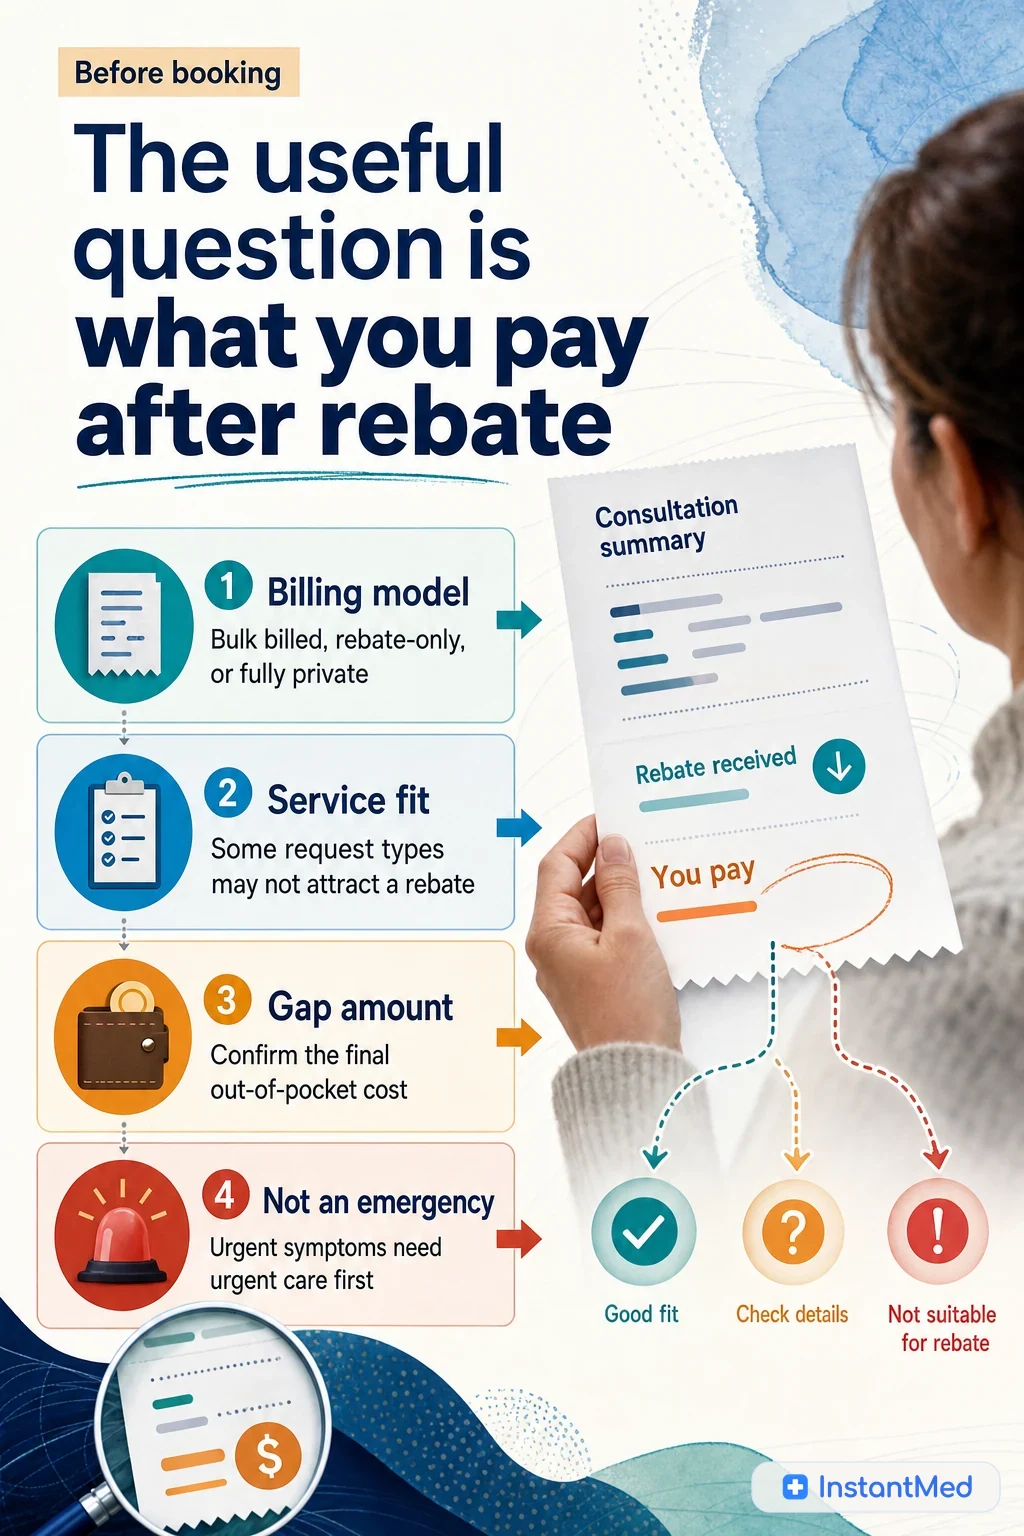
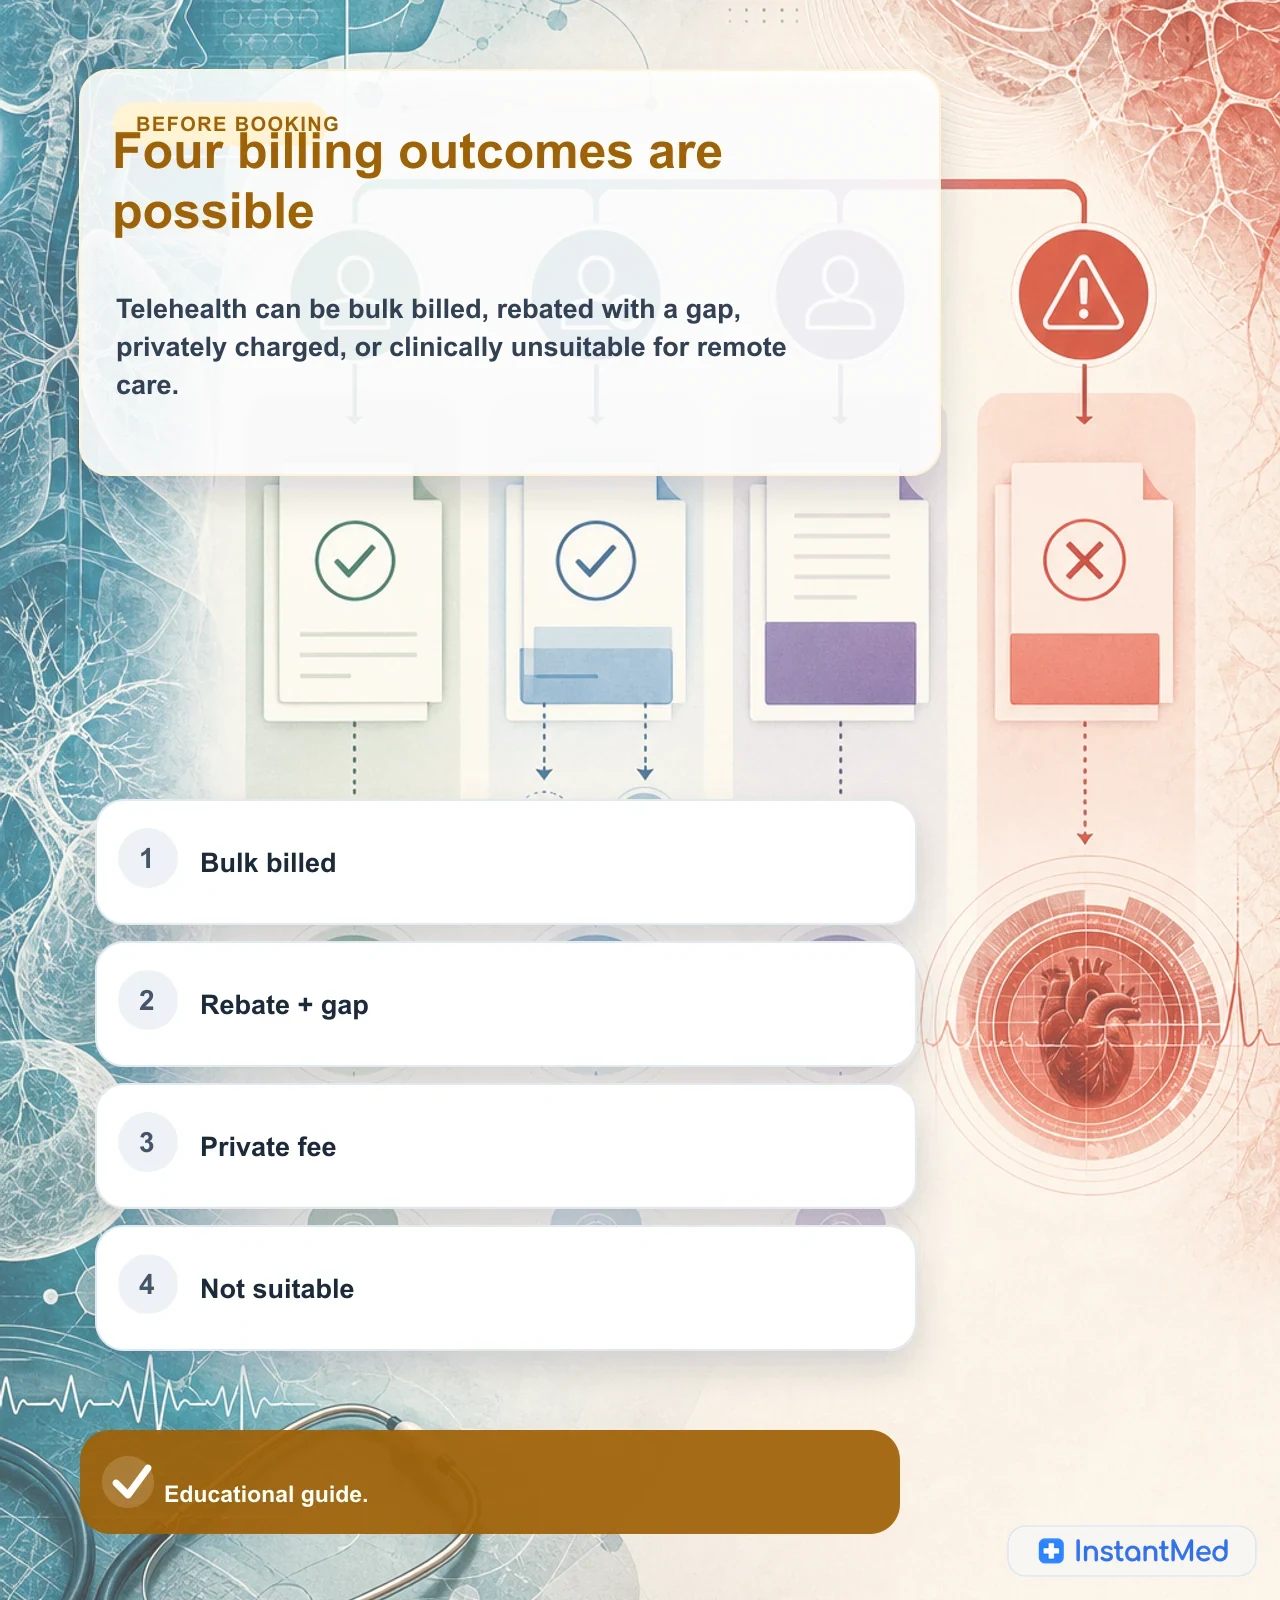
Deepen telehealth bulk billing guide (#285)

diff --git a/scripts/generate-blog-visual-images.ts b/scripts/generate-blog-visual-images.ts
@@ -4,6 +4,7 @@ import fs from "node:fs/promises"
 import path from "node:path"
 
 import { gateway, generateImage } from "ai"
+import { openai } from "@ai-sdk/openai"
 import dotenv from "dotenv"
 import sharp from "sharp"
 
@@ -45,6 +46,8 @@ const SVG_FONT_FAMILY = "Arial, Helvetica, sans-serif"
 type Renderer =
   | "deterministic"
   | "deterministic-composite"
+  | "openai-gpt-image-2"
+  | "openai-gpt-image-2-composite"
   | "gpt-image-2"
   | "gpt-image-2-composite"
   | "kie-gpt-image-2"
@@ -134,6 +137,8 @@ function getRenderer(): Renderer {
   if (
     renderer === "deterministic" ||
     renderer === "deterministic-composite" ||
+    renderer === "openai-gpt-image-2" ||
+    renderer === "openai-gpt-image-2-composite" ||
     renderer === "gpt-image-2" ||
     renderer === "gpt-image-2-composite" ||
     renderer === "kie-gpt-image-2" ||
@@ -144,7 +149,7 @@ function getRenderer(): Renderer {
     return renderer
   }
   throw new Error(
-    `Unsupported renderer "${renderer}". Use deterministic, deterministic-composite, gpt-image-2, gpt-image-2-composite, kie-gpt-image-2, kie-gpt-image-2-composite, kie-nano-banana-2, or kie-nano-banana-2-composite.`,
+    `Unsupported renderer "${renderer}". Use deterministic, deterministic-composite, openai-gpt-image-2, openai-gpt-image-2-composite, gpt-image-2, gpt-image-2-composite, kie-gpt-image-2, kie-gpt-image-2-composite, kie-nano-banana-2, or kie-nano-banana-2-composite.`,
   )
 }
 
@@ -155,6 +160,10 @@ function getEffectiveRenderer(renderer: Renderer, visual: ArticleVisual): Render
 
   if (renderer === "gpt-image-2" && visual.textMode === "labels") {
     return "gpt-image-2-composite"
+  }
+
+  if (renderer === "openai-gpt-image-2" && visual.textMode === "labels") {
+    return "openai-gpt-image-2-composite"
   }
 
   return renderer
@@ -184,6 +193,12 @@ function assertGatewayAuth() {
     throw new Error(
       "Missing AI Gateway auth. Run `vercel env pull .env.local --yes` or set AI_GATEWAY_API_KEY.",
     )
+  }
+}
+
+function assertOpenAIAuth() {
+  if (!process.env.OPENAI_API_KEY) {
+    throw new Error("Missing OPENAI_API_KEY. Set it in .env.local before using direct OpenAI renderers.")
   }
 }
 
@@ -1681,6 +1696,57 @@ async function saveGatewayCompositeInfographic(
   return filepath
 }
 
+async function saveOpenAIInfographic(
+  slug: string,
+  visual: ArticleVisual,
+  styleShift = 0,
+  size: GatewayImageSize = DEFAULT_GATEWAY_SIZE,
+) {
+  const outputDir = path.join(process.cwd(), "public", "images", "blog", slug)
+  await fs.mkdir(outputDir, { recursive: true })
+
+  const filepath = path.join(outputDir, `${visual.id}.webp`)
+  const result = await generateImage({
+    model: openai.image("gpt-image-2"),
+    prompt: buildGatewayPrompt(slug, visual, styleShift, size),
+    size,
+  })
+
+  await sharp(Buffer.from(result.image.uint8Array))
+    .webp({ quality: 88, effort: 5 })
+    .toFile(filepath)
+
+  await addInstantMedWordmark(filepath)
+  return filepath
+}
+
+async function saveOpenAICompositeInfographic(
+  slug: string,
+  visual: ArticleVisual,
+  styleShift = 0,
+  size: GatewayImageSize = DEFAULT_GATEWAY_SIZE,
+) {
+  const outputDir = path.join(process.cwd(), "public", "images", "blog", slug)
+  await fs.mkdir(outputDir, { recursive: true })
+
+  const filepath = path.join(outputDir, `${visual.id}.webp`)
+  const palette = palettes[visual.accent]
+  const result = await generateImage({
+    model: openai.image("gpt-image-2"),
+    prompt: buildGatewayCompositeUnderlayPrompt(slug, visual, styleShift),
+    size,
+  })
+
+  await sharp(Buffer.from(result.image.uint8Array))
+    .resize(WIDTH, HEIGHT, { fit: "cover", background: palette.wash })
+    .composite([{ input: Buffer.from(renderCompositeOverlaySvg(visual)), left: 0, top: 0 }])
+    .webp({ quality: 88, effort: 5 })
+    .toFile(filepath)
+
+  await addInstantMedWordmark(filepath)
+  return filepath
+}
+
 function getKieModel(renderer: KieRenderer) {
   return renderer.startsWith("kie-gpt-image-2") ? KIE_GPT_IMAGE_2_MODEL : KIE_NANO_BANANA_2_MODEL
 }
@@ -1862,6 +1928,9 @@ async function main() {
   if (renderer === "gpt-image-2" || renderer === "gpt-image-2-composite") {
     assertGatewayAuth()
   }
+  if (renderer === "openai-gpt-image-2" || renderer === "openai-gpt-image-2-composite") {
+    assertOpenAIAuth()
+  }
   if (isKieRenderer(renderer)) {
     assertKieAuth()
   }
@@ -1900,6 +1969,10 @@ async function main() {
           ? buildGatewayPrompt(slug, visual, styleShift, gatewayImageSize)
           : effectiveRenderer === "gpt-image-2-composite"
             ? buildGatewayCompositeUnderlayPrompt(slug, visual, styleShift)
+            : effectiveRenderer === "openai-gpt-image-2"
+              ? buildGatewayPrompt(slug, visual, styleShift, gatewayImageSize)
+              : effectiveRenderer === "openai-gpt-image-2-composite"
+                ? buildGatewayCompositeUnderlayPrompt(slug, visual, styleShift)
             : isKieRenderer(effectiveRenderer)
               ? isKieCompositeRenderer(effectiveRenderer)
                 ? buildKieCompositeUnderlayPrompt(slug, visual, effectiveRenderer, styleShift)
@@ -1917,6 +1990,10 @@ async function main() {
         ? await saveGatewayInfographic(slug, visual, styleShift, gatewayImageSize)
         : effectiveRenderer === "gpt-image-2-composite"
           ? await saveGatewayCompositeInfographic(slug, visual, styleShift, gatewayImageSize)
+          : effectiveRenderer === "openai-gpt-image-2"
+            ? await saveOpenAIInfographic(slug, visual, styleShift, gatewayImageSize)
+            : effectiveRenderer === "openai-gpt-image-2-composite"
+              ? await saveOpenAICompositeInfographic(slug, visual, styleShift, gatewayImageSize)
           : isKieRenderer(effectiveRenderer)
             ? await saveKieInfographic(slug, visual, effectiveRenderer, kieResolution, styleShift)
           : effectiveRenderer === "deterministic-composite"

diff --git a/lib/blog/visuals.ts b/lib/blog/visuals.ts
@@ -167,34 +167,66 @@ const generatedImageBacklogVisualLibrary: Record<ImageBacklogArticleSlug, Articl
   "is-telehealth-bulk-billed-australia": [
     {
       id: "bulk-billing-cost-map",
+      articleType: "policy",
+      visualRole: "decision-factors",
+      concept: "Bulk billed telehealth needs Medicare eligibility, provider billing choice, and benefit assignment to line up before the patient pays no consultation gap.",
       eyebrow: "Cost pathways",
-      title: "Bulk billed telehealth depends on eligibility and provider setup",
-      summary: "Medicare rules, clinic billing choices, and private fees all affect what a patient pays.",
+      title: "Bulk billed telehealth needs four checks",
+      summary: "An online consultation is only bulk billed when the Medicare item, eligibility, provider billing choice, and benefit assignment all line up.",
       visualFormat: "telehealth-workflow",
-      kind: "comparison",
+      kind: "flow",
       accent: "blue",
       items: [
-        { label: "Medicare eligible", detail: "Some consults may be bulk billed when the clinic offers it" },
-        { label: "Private fee", detail: "Patients pay the listed fee when bulk billing is unavailable" },
-        { label: "Out-of-pocket", detail: "Rebate and gap depend on the service and billing model" },
+        { label: "MBS item", detail: "The consultation type must fit an eligible Medicare telehealth item" },
+        { label: "Patient eligible", detail: "The patient and provider need to meet item rules and exemptions" },
+        { label: "Provider bulk bills", detail: "The clinic or service accepts the Medicare benefit as full payment" },
+        { label: "Benefit assigned", detail: "The patient assigns the Medicare benefit to the provider" },
       ],
-      imagePrompt: "Detailed Australian telehealth billing explainer comparing bulk billed, Medicare rebate, and private-fee pathways. Show eligibility checkpoints, provider billing choice, rebate gap, invoice flow, and patient out-of-pocket logic as an educational finance-health diagram. Avoid pricing claims, government logos, Medicare card replication, service marketing, and guarantee language.",
+      imagePrompt: "Australian telehealth bulk billing eligibility workflow. Build an educational process diagram with four clear checkpoints: eligible MBS telehealth item, patient and provider eligibility, provider billing choice, and assignment of Medicare benefit. Use abstract Medicare-claim routing, benefit transfer, check gates, and a patient out-of-pocket endpoint. No government logos, no Medicare card replica, no prices, no guarantees, no service marketing.",
+      textMode: "labels",
+      textItems: ["MBS item", "Patient eligible", "Provider bulk bills", "Benefit assigned"],
     },
     {
       id: "bulk-billing-checklist",
+      articleType: "policy",
+      visualRole: "decision-factors",
+      concept: "Patients should distinguish bulk billed, rebated with a gap, private fee, and clinically unsuitable pathways before assuming telehealth is free.",
       eyebrow: "Before booking",
-      title: "The useful question is what you pay after rebate",
-      summary: "Patients need to check billing model, Medicare eligibility, item fit, and any gap before assuming no cost.",
-      visualFormat: "patient-education-poster",
-      kind: "checklist",
+      title: "Four billing outcomes are possible",
+      summary: "Telehealth can be bulk billed, rebated with a gap, privately charged, or clinically unsuitable for remote care.",
+      visualFormat: "comparison-graphic",
+      kind: "comparison",
       accent: "amber",
       items: [
-        { label: "Billing model", detail: "Bulk billed, rebate-only, or fully private" },
-        { label: "Service fit", detail: "Some request types may not attract a rebate" },
-        { label: "Gap amount", detail: "Confirm the final out-of-pocket cost" },
-        { label: "Not an emergency", detail: "Urgent symptoms need urgent care first", tone: "urgent" },
+        { label: "Bulk billed", detail: "Medicare benefit accepted as full consultation payment", tone: "safe" },
+        { label: "Rebate + gap", detail: "Medicare benefit applies, but an out-of-pocket gap remains" },
+        { label: "Private fee", detail: "A listed service fee is paid without a Medicare claim" },
+        { label: "Not suitable", detail: "The clinical issue needs in-person or urgent care", tone: "urgent" },
       ],
-      imagePrompt: "Practical pre-consult checklist visual for Australian telehealth billing. Show a patient comparing billing model, Medicare eligibility, service type, gap amount, and urgent-care exclusion using labelled pathway panels and abstract receipt/rebate shapes. No fake Medicare card, no government branding, no dollar promises, no consultation CTA.",
+      imagePrompt: "Telehealth billing comparison diagram for Australian patients. Show four outcomes side by side: bulk billed, Medicare rebate with gap, private fee, and not clinically suitable for remote care. Use distinct lanes, invoice/rebate abstraction, patient out-of-pocket signal, and a calm urgent-care boundary. No dollar amounts, no official logos, no fake Medicare card, no consultation CTA.",
+      textMode: "labels",
+      textItems: ["Bulk billed", "Rebate + gap", "Private fee", "Not suitable"],
+    },
+    {
+      id: "bulk-billing-boundaries",
+      articleType: "policy",
+      visualRole: "safety-boundary",
+      concept: "Billing should never be used as the safety test; severe or examination-dependent symptoms need in-person or urgent care regardless of price.",
+      eyebrow: "Safety boundary",
+      title: "Billing is not the clinical safety test",
+      summary: "A cheaper or bulk billed appointment is still the wrong pathway if symptoms need examination, monitoring, or urgent care.",
+      visualFormat: "red-flag-warning",
+      kind: "warning",
+      accent: "rose",
+      items: [
+        { label: "Routine telehealth", detail: "Straightforward questions may fit phone or video review", tone: "safe" },
+        { label: "Exam needed", detail: "Some issues need observation, tests, or physical examination", tone: "caution" },
+        { label: "Urgent symptoms", detail: "Severe or fast-changing symptoms need urgent care first", tone: "urgent" },
+        { label: "Doctor decides", detail: "The clinician can redirect care when remote review is not enough" },
+      ],
+      imagePrompt: "Calm Australian telehealth safety-boundary infographic. Show a decision split where routine telehealth can proceed, examination-needed problems move to in-person care, urgent symptoms escalate, and the clinician decides suitability. Use triage bands, process arrows, warning hierarchy, and clinical review cues. No fearmongering, no generic warning-icon row, no fake app UI, no service CTA.",
+      textMode: "labels",
+      textItems: ["Routine telehealth", "Exam needed", "Urgent symptoms", "Doctor decides"],
     },
   ],
   "is-telehealth-legal-australia": [